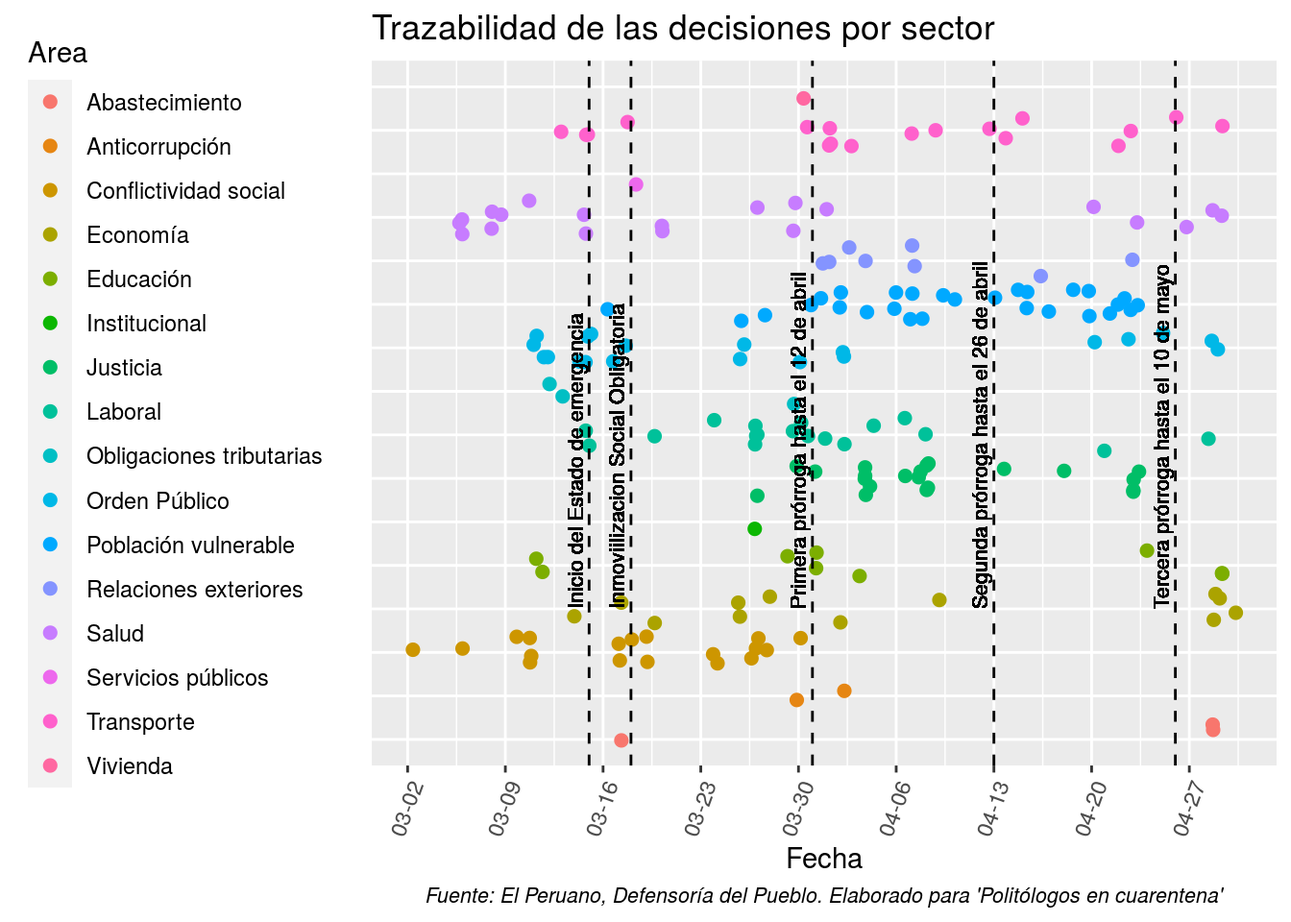
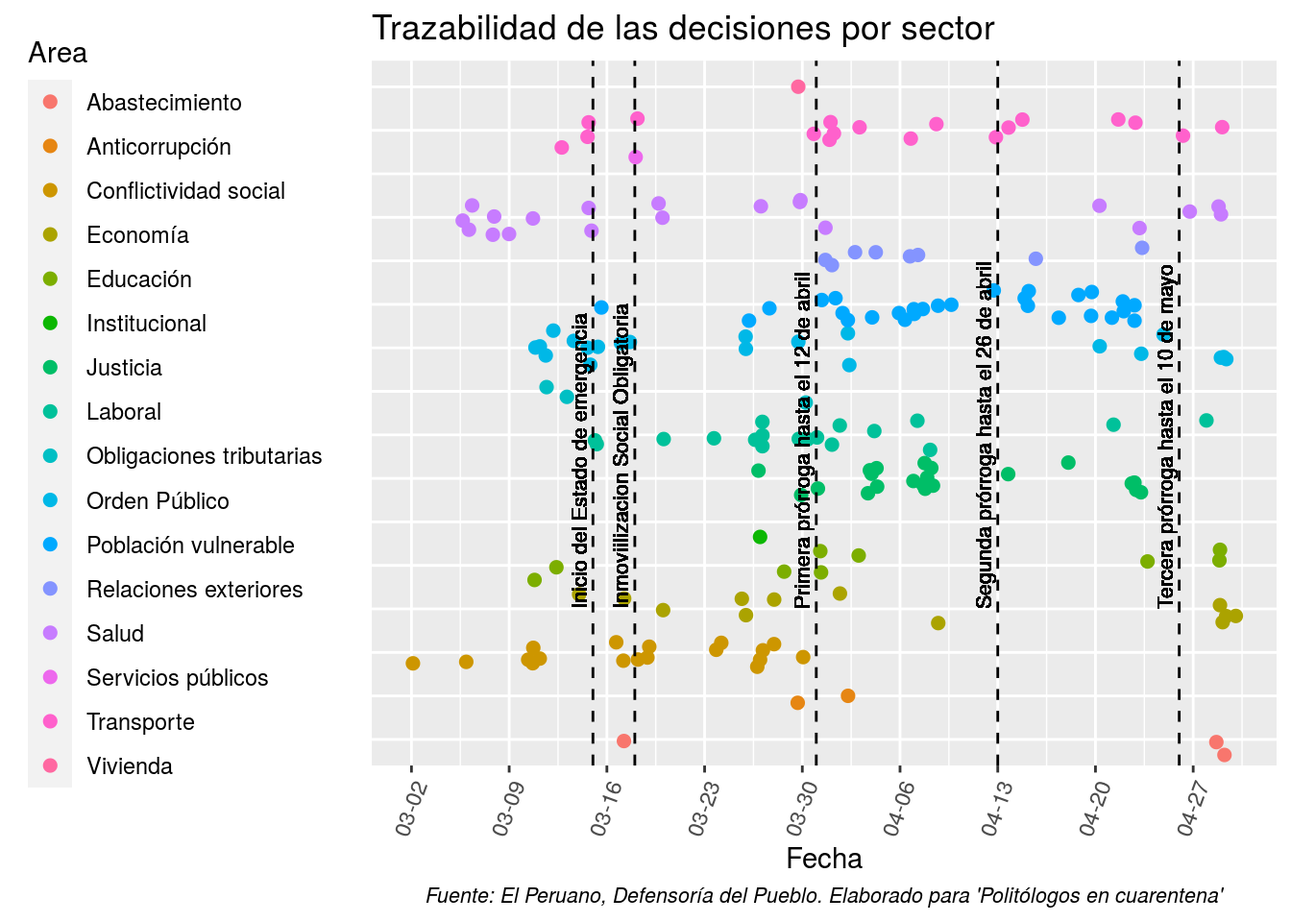
Actualizacion 30 de abril

diff --git a/nacional.html b/nacional.html
@@ -330,7 +330,7 @@ Al tomar decisiones para resolver un problema público prosigue el proceso de co
 </p>
 <p>
 <div style="text-align:justify">
-Un <em>análisis por instrumentos</em> permite explorar las medidas que son seleccionadas por el gobierno de una “caja de herramientas” de cara a la ciudadanía en su estrategia para contener la expansión del COVID-19 en el Perú. Entonces, <strong>¿Cómo podemos encontrarle un sentido a una diversidad de instrumentos que se han venido aplicando?</strong> La repuesta es mediante la taxonomía NATO, originalmente trabajada por Christopher Hood en su texto <em>The Tools of Government: Public Policy and Politics</em>
+Un <em>análisis por instrumentos</em> permite explorar las medidas que son seleccionadas por el gobierno de una “caja de herramientas” de cara a la ciudadanía en su estrategia para contener la expansión del COVID-19 en el Perú. Entonces, <strong>¿Cómo podemos encontrarle un sentido a una diversidad de medidas que se han venido aplicando?</strong> La repuesta es mediante la taxonomía NATO, originalmente trabajada por Christopher Hood en su texto <em>The Tools of Government: Public Policy and Politics</em>
 </div>
 </p>
 </div>
@@ -354,8 +354,8 @@ La <strong>taxonomía NATO</strong> (acrónimo de las palabras <em>nodality</em>
 <p>
 Entonces, <strong>¿Cuáles han sido los instrumentos de política puestos en práctica por el gobierno para enfrentar la crisis del COVID-19?</strong>
 </p>
-<div id="htmlwidget-556fe469fab89ae21f2c" style="width:100%;height:auto;" class="datatables html-widget"></div>
-<script type="application/json" data-for="htmlwidget-556fe469fab89ae21f2c">{"x":{"filter":"none","data":[["2020-04-30","2020-04-29","2020-04-29","2020-04-14","2020-04-09","2020-04-02","2020-04-02","2020-04-01","2020-03-30","2020-03-30","2020-03-29","2020-03-28","2020-03-26","2020-03-26","2020-03-26","2020-03-26","2020-03-26","2020-03-20","2020-03-20","2020-03-20","2020-03-20","2020-03-18","2020-03-18","2020-03-17","2020-03-17","2020-03-17","2020-03-16","2020-03-15","2020-03-15","2020-03-15","2020-03-15","2020-03-15","2020-03-15","2020-03-15","2020-03-15","2020-03-15","2020-03-14","2020-03-14","2020-03-13","2020-03-12","2020-03-12","2020-03-12","2020-03-12","2020-03-11","2020-03-11","2020-03-09","2020-03-08","2020-03-08","2020-03-06","2020-03-06","2020-03-06"],["Economía","Abastecimiento","Economía","Justicia","Economía","Orden Público","Anticorrupción","Salud","Orden Público","Laboral","Educación","Economía","Orden Público","Orden Público","Población vulnerable","Economía","Economía","Salud","Salud","Laboral","Economía","Orden Público","Servicios públicos","Orden Público","Economía","Abastecimiento","Población vulnerable","Orden Público","Orden Público","Orden Público","Transporte","Transporte","Laboral","Laboral","Salud","Salud","Economía","Orden Público","Obligaciones tributarias","Educación","Orden Público","Orden Público","Obligaciones tributarias","Orden Público","Orden Público","Salud","Salud","Salud","Salud","Salud","Salud"],["Aprobación del retiro del 25% de los fondos de AFP","Cierre por 10 días del Mercado Caqueta para su desinfección y apertura de mercado itinerante en la Av. Zarumilla para el abastecimiento temporal","Se habilita el retiro de un máximo de 3000 soles de la AFP","Aplicación de la conversión automática de la pena a arresto domiciliario para personas condenadas por el delito de omisión de asistencia familiar con el objetivo de reducir el hacinamiento en los centro penitenciarios y evitar contagios de COVID-19","Lanzamiento del aplicativo web que permite el seguimiento del presupuesto asignado para mitigar efectos del COVID-19","Se restringe la movilización de hombres y mujeres a días determinados, para reducir la circulación de personas. Mujeres: martes, jueves y sábados. Hombres: lunes, miércoles y viernes","Se dispone el uso obligatorio de la \"Plataforma  para la Transparencia de la Gestión Pública en la Emergencia Sanitaria COVID-19\" por parte de los gobiernos locales","Se apertura la plataforma virtual \"Perú en tus manos\"","Modificación del horario de Inmovilizacion Social Obligatoria desde las 6 pm. hasta las 5 am. a nivel nacional. Excepción de Loreto, Piura, Lambayeque y La Libertad, Tumbes donde se aplicará desde las 4 pm.","Autorización de los 2000 soles de AFP para aquellos trabajadores que no estan en planilla de los ultimos 12 meses.","Aprobación de los criterios para la supervisión de la adaptación de la educación no presencial, con caracter excepcional, en las universidades y escuelas de posgrado","Aprobación de Contrato de Fideicomiso de Administración del Fondo de Apoyo Empresarial a la MYPE","Ampliación de Estado de Emergencia por 13 dias calendarios","Registro de personas infractoras del Estado de Emergencia para derivarse al Ministerio Público","Entrega de canasta basica a familias vulnerables","Suspension del mes de abril a los aportes en AFP","Subsidio para el pago de planilla de empleadores del sector privado orientado a la preservación del empleo","App para registro y pruebas autoaplicadas","Aumento constante de pruebas diarias aplicadas","Se establece la licencia con goce de haber compensable.","Apoyo financiero a la MYPE y financiamiento de acciones ante los efectos del COVID-19","Inmovilizacion Social Obligatorio (de 8 pm. a 5 am.)","Postergacion de pagos de servicios publicos del mes de marzo","Autorización de solicitud de pase de tránsito","Ampliación de la vigencia de los DNI caducos o próximos a caducar, para acceder a bienes y servicios","Prorrogan vigencia de títulos habilitantes en materia de licencias de conducir, servicios de transporte de personas y de carga y mercancía","Bono de 380 soles para familias en situación en situación vulnerable","Declaración de Estado de Emergencia (suspensión de derechos constitucionales)","Suspensión de acceso publico a lugares y toda actividad masiva","Cierre temporal de fronteras durante el tiempo de Estado de Emergencia","Transporte urbano reduce oferta en 50%","Restricción de transporte interprovincial (exceptuando a carga y/o mercancía)","Autorización del trabajo remoto para el sector publico y privado","Subsidio a trabajadores con COVID-19","#quedateencasa #yomequedoencasa","Reporte diarios del avance de las medidas por parte del Presidente","Amplían el alcance de la cobertura del Fondo CRECER para las Pymes","Suspensión temporal de recepción de naves crucero","Reduccion a 0% de tasa arancelaria a la importación de bienes vinculados a la Emergencia Sanitaria","Postergación o suspensión de actividades en los universidades e institutos públicos o privados ","Prohibicion de cualquier espectáculo de más de 300 personas y locales al 50% de aforo","Suspensión de vuelos a Europa y Asia por 30 dias","Aplazamiento de la declaracion de impuestos","Aislamiento domiciliario por catorce (14) días para personas provenientes de España, Italia y China","Postergación o suspensión de actividades en los centros educativos públicos o privados ","Guía para la prevención del COVID-19 en el ámbito laboral","Atención y manejo clinico de casos de COVID-19\n","Declaración Jurada de Salud del Viajero para prevenir el coronavirus (COVID-19)","Campañas de promoción de lavado de manos\n","Inicio de reportes diarios de casos confirmados","Habilitación de la Linea 113"],["Tesoro","Autoridad","Tesoro","Autoridad","Nodalidad","Autoridad","Nodalidad","Nodalidad","Autoridad","Tesoro","Autoridad","Tesoro","Autoridad","Autoridad","Tesoro","Tesoro","Tesoro","Nodalidad","Nodalidad","","Tesoro","Autoridad","Tesoro","Nodalidad","Tesoro","Organización","Tesoro","Autoridad","Autoridad","Autoridad","Autoridad","Autoridad","Autoridad","Tesoro","Nodalidad","Nodalidad","Tesoro","Autoridad","Tesoro","Autoridad","Autoridad","Autoridad","Tesoro","Autoridad","Autoridad","Autoridad","Autoridad","Nodalidad","Nodalidad","Nodalidad","Organización"]],"container":"<table class=\"display\">\n  <thead>\n    <tr>\n      <th>Fecha<\/th>\n      <th>Sector<\/th>\n      <th>Instrumento<\/th>\n      <th>Tipo<\/th>\n    <\/tr>\n  <\/thead>\n<\/table>","options":{"pageLength":10,"lengthMenu":[10,15,20],"language":{"lengthMenu":"Mostrar _MENU_ entradas","info":"Mostrando _START_ al _END_ de _TOTAL_ entradas","search":"Buscar:","paginate":{"previous":"Anterior","next":"Siguiente"}},"order":[],"autoWidth":false,"orderClasses":false}},"evals":[],"jsHooks":[]}</script>
+<div id="htmlwidget-3360e8b6d676a815069c" style="width:100%;height:auto;" class="datatables html-widget"></div>
+<script type="application/json" data-for="htmlwidget-3360e8b6d676a815069c">{"x":{"filter":"none","data":[["2020-04-30","2020-04-29","2020-04-29","2020-04-14","2020-04-09","2020-04-02","2020-04-02","2020-04-01","2020-03-30","2020-03-30","2020-03-29","2020-03-28","2020-03-26","2020-03-26","2020-03-26","2020-03-26","2020-03-26","2020-03-20","2020-03-20","2020-03-20","2020-03-20","2020-03-18","2020-03-18","2020-03-17","2020-03-17","2020-03-17","2020-03-16","2020-03-15","2020-03-15","2020-03-15","2020-03-15","2020-03-15","2020-03-15","2020-03-15","2020-03-15","2020-03-15","2020-03-14","2020-03-14","2020-03-13","2020-03-12","2020-03-12","2020-03-12","2020-03-12","2020-03-11","2020-03-11","2020-03-09","2020-03-08","2020-03-08","2020-03-06","2020-03-06","2020-03-06"],["Economía","Abastecimiento","Economía","Justicia","Economía","Orden Público","Anticorrupción","Salud","Orden Público","Laboral","Educación","Economía","Orden Público","Orden Público","Población vulnerable","Economía","Economía","Salud","Salud","Laboral","Economía","Orden Público","Servicios públicos","Orden Público","Economía","Abastecimiento","Población vulnerable","Orden Público","Orden Público","Orden Público","Transporte","Transporte","Laboral","Laboral","Salud","Salud","Economía","Orden Público","Obligaciones tributarias","Educación","Orden Público","Orden Público","Obligaciones tributarias","Orden Público","Orden Público","Salud","Salud","Salud","Salud","Salud","Salud"],["Aprobación del retiro del 25% de los fondos de AFP","Cierre por 10 días del Mercado Caqueta para su desinfección y apertura de mercado itinerante en la Av. Zarumilla para el abastecimiento temporal","Se habilita el retiro de un máximo de 3000 soles de la AFP","Aplicación de la conversión automática de la pena a arresto domiciliario para personas condenadas por el delito de omisión de asistencia familiar con el objetivo de reducir el hacinamiento en los centro penitenciarios y evitar contagios de COVID-19","Lanzamiento del aplicativo web que permite el seguimiento del presupuesto asignado para mitigar efectos del COVID-19","Se restringe la movilización de hombres y mujeres a días determinados, para reducir la circulación de personas. Mujeres: martes, jueves y sábados. Hombres: lunes, miércoles y viernes","Se dispone el uso obligatorio de la \"Plataforma  para la Transparencia de la Gestión Pública en la Emergencia Sanitaria COVID-19\" por parte de los gobiernos locales","Se apertura la plataforma virtual \"Perú en tus manos\"","Modificación del horario de Inmovilizacion Social Obligatoria desde las 6 pm. hasta las 5 am. a nivel nacional. Excepción de Loreto, Piura, Lambayeque y La Libertad, Tumbes donde se aplicará desde las 4 pm.","Autorización de los 2000 soles de AFP para aquellos trabajadores que no estan en planilla de los ultimos 12 meses.","Aprobación de los criterios para la supervisión de la adaptación de la educación no presencial, con caracter excepcional, en las universidades y escuelas de posgrado","Aprobación de Contrato de Fideicomiso de Administración del Fondo de Apoyo Empresarial a la MYPE","Ampliación de Estado de Emergencia por 13 dias calendarios","Registro de personas infractoras del Estado de Emergencia para derivarse al Ministerio Público","Entrega de canasta basica a familias vulnerables","Suspension del mes de abril a los aportes en AFP","Subsidio para el pago de planilla de empleadores del sector privado orientado a la preservación del empleo","App para registro y pruebas autoaplicadas","Aumento constante de pruebas diarias aplicadas","Se establece la licencia con goce de haber compensable.","Apoyo financiero a la MYPE y financiamiento de acciones ante los efectos del COVID-19","Inmovilizacion Social Obligatorio (de 8 pm. a 5 am.)","Postergacion de pagos de servicios publicos del mes de marzo","Autorización de solicitud de pase de tránsito","Ampliación de la vigencia de los DNI caducos o próximos a caducar, para acceder a bienes y servicios","Prorrogan vigencia de títulos habilitantes en materia de licencias de conducir, servicios de transporte de personas y de carga y mercancía","Bono de 380 soles para familias en situación en situación vulnerable","Declaración de Estado de Emergencia (suspensión de derechos constitucionales)","Suspensión de acceso publico a lugares y toda actividad masiva","Cierre temporal de fronteras durante el tiempo de Estado de Emergencia","Transporte urbano reduce oferta en 50%","Restricción de transporte interprovincial (exceptuando a carga y/o mercancía)","Autorización del trabajo remoto para el sector publico y privado","Subsidio a trabajadores con COVID-19","#quedateencasa #yomequedoencasa","Reporte diarios del avance de las medidas por parte del Presidente","Amplían el alcance de la cobertura del Fondo CRECER para las Pymes","Suspensión temporal de recepción de naves crucero","Reduccion a 0% de tasa arancelaria a la importación de bienes vinculados a la Emergencia Sanitaria","Postergación o suspensión de actividades en los universidades e institutos públicos o privados ","Prohibicion de cualquier espectáculo de más de 300 personas y locales al 50% de aforo","Suspensión de vuelos a Europa y Asia por 30 dias","Aplazamiento de la declaracion de impuestos","Aislamiento domiciliario por catorce (14) días para personas provenientes de España, Italia y China","Postergación o suspensión de actividades en los centros educativos públicos o privados ","Guía para la prevención del COVID-19 en el ámbito laboral","Atención y manejo clinico de casos de COVID-19\n","Declaración Jurada de Salud del Viajero para prevenir el coronavirus (COVID-19)","Campañas de promoción de lavado de manos\n","Inicio de reportes diarios de casos confirmados","Habilitación de la Linea 113"],["Tesoro","Autoridad","Tesoro","Autoridad","Nodalidad","Autoridad","Nodalidad","Nodalidad","Autoridad","Tesoro","Autoridad","Tesoro","Autoridad","Autoridad","Tesoro","Tesoro","Tesoro","Nodalidad","Nodalidad","","Tesoro","Autoridad","Tesoro","Nodalidad","Tesoro","Organización","Tesoro","Autoridad","Autoridad","Autoridad","Autoridad","Autoridad","Autoridad","Tesoro","Nodalidad","Nodalidad","Tesoro","Autoridad","Tesoro","Autoridad","Autoridad","Autoridad","Tesoro","Autoridad","Autoridad","Autoridad","Autoridad","Nodalidad","Nodalidad","Nodalidad","Organización"]],"container":"<table class=\"display\">\n  <thead>\n    <tr>\n      <th>Fecha<\/th>\n      <th>Sector<\/th>\n      <th>Instrumento<\/th>\n      <th>Tipo<\/th>\n    <\/tr>\n  <\/thead>\n<\/table>","options":{"pageLength":10,"lengthMenu":[10,15,20],"language":{"lengthMenu":"Mostrar _MENU_ entradas","info":"Mostrando _START_ al _END_ de _TOTAL_ entradas","search":"Buscar:","paginate":{"previous":"Anterior","next":"Siguiente"}},"order":[],"autoWidth":false,"orderClasses":false}},"evals":[],"jsHooks":[]}</script>
 </div>
 <div id="redes-de-subsistemas-politicos" class="section level3">
 <h3>2.3. Redes de subsistemas politicos</h3>
@@ -402,12 +402,18 @@ En este contexto de Estado de Emergencia, las princpales actividades aún vigent
 <p>Max Iglesias (Comandante General de la PNP): “Alrededor de mas de dos mil policías contagiados y 24 policias que lamentablemente han fallecido.” (<em>29 de abril del 2020</em>)</p>
 </blockquote>
 </div>
+<div id="militares" class="section level4">
+<h4>Militares</h4>
+<blockquote>
+<p>Walter Martos (Ministro de Defensa): “Hasta el momento han fallecido 6 militares de las Fuerzas Armadas (FF.AA.) a causa del COVID-19 y otros 349 están contagiados en el país” (<em>29 de abril del 2020</em>)</p>
+</blockquote>
+</div>
 </div>
 <div id="conflictos-sociales-vinculados-al-estado-de-emergencia" class="section level3">
 <h3>2.6. Conflictos sociales vinculados al Estado de Emergencia</h3>
 <p>Según el reporte de conflictos mensual emitido por la Defensoria del Pueblo, para el mes de marzo se registraron <strong>18 acciones de protesta</strong> vinculadas a la situación de emergencia por causa del COVID-19. En el mes de abril estas manifestaciones se han venido incrementando diariamente.</p>
-<div id="htmlwidget-6ce85d82aaca64a7bd91" style="width:100%;height:auto;" class="datatables html-widget"></div>
-<script type="application/json" data-for="htmlwidget-6ce85d82aaca64a7bd91">{"x":{"filter":"none","data":[["2020-04-29","2020-04-29","2020-04-29","2020-04-29","2020-04-27","2020-04-24","2020-04-20","2020-03-30","2020-03-28","2020-03-27","2020-03-27","2020-03-24","2020-03-24","2020-03-19","2020-03-19","2020-03-18","2020-03-17","2020-03-17","2020-03-11","2020-03-11","2020-03-11","2020-03-10","2020-03-06","2020-03-02"],["Enfermeras del Hospital Militar","Padres de colegios privados","Ciudadanos loretanos","Padres de colegios privados en Juliaca","Técnicos y enfermeros del hospital Hipólito Unanue","Padres del Colegio Technology School","Personal de salud del Hospital Maria Auxiliadora","Presos del penal de Yanamilla\n","Población del sector calle\nDos ","Médicos del Hospital Honorio Delgado Espinoza","Población del sector de Chicago de Trujillo","Transportistas de Carga Pesada","Asociación de\nTransportes de Carga\nPeligrosa\n","Poblacion de Lima","Ciudadanos varados en\nlas afueras del\naeropuerto Jorge Chávez","Médicos del Hospital César Garayar García","Trabajadores del Programa Surco Verde","Población del asentamiento humano Complejo Habitaciona","Población del distrito de\nVíctor Larco","Personal de salud del Hospital Regional de Áncash - Eleazar Gusmán Barrón","Médicos, enfermeras y trabajadores del Hospital Carlos Alcántara","Médicos del Hospital Goyoneche","Médicos y personal del Hospital Uldarico Roca Fernández","Población de Nuevo Chimbote"],["Las enfermeras del Hospital Militar se vieron obligadas a protestar fuera de dicho nosocomio en Lima, debido a que no se les entrega protección adecuada para proteger su vida y salud del coronavirus COVID-19","Padres protestan en las afueras del colegio Trilce de Chorrillos para exigir reducción del 50% de la pensión","Loretanos bloquearon la Av. Faucett exigiendo traslado humanitario","Juliaca: padres protestan para lograr rebaja de pensiones en colegios privados","El personal pidió que se cumpla con sus pagos y se les asignen los implementos necesarios para que continúen luchando contra el COVID-19.","Padres protestan en los exteriores de colegios particulares por cobro de pensiones","Un grupo de profesionales de la salud, entre médicos, enfermeras y trabajadores, del hospital María Auxiliadora realizó una protesta frente a dicha institución, en Villa María del Triunfo, para reclamar por la falta de equipos de protección personal (EPP). ","Ampliación hasta el próximo 31 de octubre de la vigencia de la Habilitación del conductor y de la Tarjeta Única de Circulación (TUC).","Rechazan que el recinto deportivo Campeones del 36 sea considerado como albergue para pacientes positivos de coronavirus.","Rechazan la decisión de utilizar el área sensible como zona de aislamiento temporal para pacientes graves por coronavirus","Rechazan la instalación de un hospital itinerante para pacientes de coronavirus en el complejo deportivo Chan Chan.\n","Exigen se anule el cobro de peajes en pleno Estado de Emergencia Nacional","Denuncian el funcionamiento de la empresa minera Lincuna en pleno Estado de Emergencia Nacional","Exigen a las autoridades ayuda y que se disponga de un vuelo humanitario a la ciudad de Lima.","Exigen a las autoridades ayuda y que se disponga de vuelos humanitarios para los destinos de Arequipa, Piura, Cusco y Puerto Maldonado.","Exigen implementos necesarios y suficientes para poder atender los casos de pacientes con coronavirus.","Denuncian que pese a la prohibición de movimiento por el Estado de Emergencia a causa del coronavirus, la Municipalidad de Surco les obliga a trabajar con normalidad.","Exigen recibir el bono de S/. 380 anunciado por el Gobierno Nacional en el marco del Estado de Emergencia Nacional por el coronavirus.","Rechazan que el Centro Preventorio de EsSalud sea considerado para la atención de presuntos portadores de\ncoronavirus.","Exigen mejores condiciones e implementos como mascarillas, botas, mandiles; que ayuden a enfrentar posibles casos de coronavirus.","Denuncian la improvisación de Essalud para la atención de pacientes infectados con el nuevo coronavirus. Asimismo, exigen mejores condiciones e implementos como mascarillas, botas, mandiles, entre otros","Exigen mejores condiciones e implementos como mascarillas, botas, mandiles; que ayuden a enfrentar\nposibles casos de coronavirus.\n","Rechazan la designación del hospital Uldarico Roca Fernández como uno de los centros médicos para atender\ncasos de coronavirus en Perú.","Exigen el cierre temporal del puerto de Chimbote para evitar el ingreso de posibles casos del nuevo coronavirus\nen la región."],["Plantón","Plantón","Bloqueo de vía","Plantón","Plantón","Plantón","Plantón","Plantón","Plantón","Plantón","Plantón","Concentración","Concentración","Plantón","Concentración","Plantón","Paralización de actividades\n","Concentración","Concentración","Plantón","Plantón","Plantón","Plantón","Concentración"]],"container":"<table class=\"display\">\n  <thead>\n    <tr>\n      <th>Fecha<\/th>\n      <th>Actores en protesta<\/th>\n      <th>Contenido<\/th>\n      <th>Accion colectiva<\/th>\n    <\/tr>\n  <\/thead>\n<\/table>","options":{"order":[],"autoWidth":false,"orderClasses":false}},"evals":[],"jsHooks":[]}</script>
+<div id="htmlwidget-5f89ae94e8c4e93ca845" style="width:100%;height:auto;" class="datatables html-widget"></div>
+<script type="application/json" data-for="htmlwidget-5f89ae94e8c4e93ca845">{"x":{"filter":"none","data":[["2020-04-29","2020-04-29","2020-04-29","2020-04-29","2020-04-27","2020-04-24","2020-04-20","2020-03-30","2020-03-28","2020-03-27","2020-03-27","2020-03-24","2020-03-24","2020-03-19","2020-03-19","2020-03-18","2020-03-17","2020-03-17","2020-03-11","2020-03-11","2020-03-11","2020-03-10","2020-03-06","2020-03-02"],["Enfermeras del Hospital Militar","Padres de colegios privados","Ciudadanos loretanos","Padres de colegios privados en Juliaca","Técnicos y enfermeros del hospital Hipólito Unanue","Padres del Colegio Technology School","Personal de salud del Hospital Maria Auxiliadora","Presos del penal de Yanamilla\n","Población del sector calle\nDos ","Médicos del Hospital Honorio Delgado Espinoza","Población del sector de Chicago de Trujillo","Transportistas de Carga Pesada","Asociación de\nTransportes de Carga\nPeligrosa\n","Poblacion de Lima","Ciudadanos varados en\nlas afueras del\naeropuerto Jorge Chávez","Médicos del Hospital César Garayar García","Trabajadores del Programa Surco Verde","Población del asentamiento humano Complejo Habitaciona","Población del distrito de\nVíctor Larco","Personal de salud del Hospital Regional de Áncash - Eleazar Gusmán Barrón","Médicos, enfermeras y trabajadores del Hospital Carlos Alcántara","Médicos del Hospital Goyoneche","Médicos y personal del Hospital Uldarico Roca Fernández","Población de Nuevo Chimbote"],["Las enfermeras del Hospital Militar se vieron obligadas a protestar fuera de dicho nosocomio en Lima, debido a que no se les entrega protección adecuada para proteger su vida y salud del coronavirus COVID-19","Padres protestan en las afueras del colegio Trilce de Chorrillos para exigir reducción del 50% de la pensión","Loretanos bloquearon la Av. Faucett exigiendo traslado humanitario","Juliaca: padres protestan para lograr rebaja de pensiones en colegios privados","El personal pidió que se cumpla con sus pagos y se les asignen los implementos necesarios para que continúen luchando contra el COVID-19.","Padres protestan en los exteriores de colegios particulares por cobro de pensiones","Un grupo de profesionales de la salud, entre médicos, enfermeras y trabajadores, del hospital María Auxiliadora realizó una protesta frente a dicha institución, en Villa María del Triunfo, para reclamar por la falta de equipos de protección personal (EPP). ","Ampliación hasta el próximo 31 de octubre de la vigencia de la Habilitación del conductor y de la Tarjeta Única de Circulación (TUC).","Rechazan que el recinto deportivo Campeones del 36 sea considerado como albergue para pacientes positivos de coronavirus.","Rechazan la decisión de utilizar el área sensible como zona de aislamiento temporal para pacientes graves por coronavirus","Rechazan la instalación de un hospital itinerante para pacientes de coronavirus en el complejo deportivo Chan Chan.\n","Exigen se anule el cobro de peajes en pleno Estado de Emergencia Nacional","Denuncian el funcionamiento de la empresa minera Lincuna en pleno Estado de Emergencia Nacional","Exigen a las autoridades ayuda y que se disponga de un vuelo humanitario a la ciudad de Lima.","Exigen a las autoridades ayuda y que se disponga de vuelos humanitarios para los destinos de Arequipa, Piura, Cusco y Puerto Maldonado.","Exigen implementos necesarios y suficientes para poder atender los casos de pacientes con coronavirus.","Denuncian que pese a la prohibición de movimiento por el Estado de Emergencia a causa del coronavirus, la Municipalidad de Surco les obliga a trabajar con normalidad.","Exigen recibir el bono de S/. 380 anunciado por el Gobierno Nacional en el marco del Estado de Emergencia Nacional por el coronavirus.","Rechazan que el Centro Preventorio de EsSalud sea considerado para la atención de presuntos portadores de\ncoronavirus.","Exigen mejores condiciones e implementos como mascarillas, botas, mandiles; que ayuden a enfrentar posibles casos de coronavirus.","Denuncian la improvisación de Essalud para la atención de pacientes infectados con el nuevo coronavirus. Asimismo, exigen mejores condiciones e implementos como mascarillas, botas, mandiles, entre otros","Exigen mejores condiciones e implementos como mascarillas, botas, mandiles; que ayuden a enfrentar\nposibles casos de coronavirus.\n","Rechazan la designación del hospital Uldarico Roca Fernández como uno de los centros médicos para atender\ncasos de coronavirus en Perú.","Exigen el cierre temporal del puerto de Chimbote para evitar el ingreso de posibles casos del nuevo coronavirus\nen la región."],["Plantón","Plantón","Bloqueo de vía","Plantón","Plantón","Plantón","Plantón","Plantón","Plantón","Plantón","Plantón","Concentración","Concentración","Plantón","Concentración","Plantón","Paralización de actividades\n","Concentración","Concentración","Plantón","Plantón","Plantón","Plantón","Concentración"]],"container":"<table class=\"display\">\n  <thead>\n    <tr>\n      <th>Fecha<\/th>\n      <th>Actores en protesta<\/th>\n      <th>Contenido<\/th>\n      <th>Accion colectiva<\/th>\n    <\/tr>\n  <\/thead>\n<\/table>","options":{"order":[],"autoWidth":false,"orderClasses":false}},"evals":[],"jsHooks":[]}</script>
 </div>
 <div id="noticias-demandas-y-pronunciamientos" class="section level3">
 <h3>2.7. Noticias, demandas y pronunciamientos</h3>

diff --git a/subnacional.html b/subnacional.html
@@ -312,11 +312,11 @@ $(document).ready(function () {
 <h3>3.1. Gobiernos regionales</h3>
 <div id="datos-sobre-casos-y-muestras-realizadas" class="section level4">
 <h4>3.1.1. Datos sobre casos y muestras realizadas</h4>
-<div id="htmlwidget-2aa42294f75a22525f70" style="width:100%;height:auto;" class="datatables html-widget"></div>
-<script type="application/json" data-for="htmlwidget-2aa42294f75a22525f70">{"x":{"filter":"none","data":[["Amazonas","Áncash","Apurímac","Arequipa","Ayacucho","Cajamarca","Callao","Cusco","Huancavelica","Huánuco","Ica","Junín","La Libertad","Lambayeque","Lima Metropolitana","Lima Región","Loreto","Madre de Dios","Moquegua","Pasco","Piura","Puno","San Martín","Tacna","Tumbes","Ucayali"],[2052,8574,2612,10173,2058,3784,12652,3746,1430,3640,4397,4825,7456,8873,174240,2559,5785,5119,3136,2127,8896,3790,4587,4353,2685,2713],[119,630,66,529,80,162,3101,203,75,169,401,373,615,1956,21337,517,1003,105,111,95,1080,89,205,94,290,526],["491,25","721,19","643,73","735,72","334,00","282,17","1272,20","310,74","411,35","504,82","516,83","387,23","419,33","741,11","1822,16","281,08","654,77","3628,69","1793,40","837,19","479,10","323,19","563,94","1321,77","1194,06","546,47"],["28,49","52,99","16,27","38,26","12,98","12,08","311,82","16,84","21,57","23,44","47,13","29,93","34,59","163,37","223,14","56,79","113,52","74,43","63,48","37,39","58,16","7,59","25,20","28,54","128,97","105,95"],["5,80%","7,35%","2,53%","5,20%","3,89%","4,28%","24,51%","5,42%","5,24%","4,64%","9,12%","7,73%","8,25%","22,04%","12,25%","20,20%","17,34%","2,05%","3,54%","4,47%","12,14%","2,35%","4,47%","2,16%","10,80%","19,39%"]],"container":"<table class=\"display\">\n  <thead>\n    <tr>\n      <th>Región<\/th>\n      <th>Muestras realizadas<\/th>\n      <th>Positivos<\/th>\n      <th>Muestras x 100 mil hab.<\/th>\n      <th>Positivos x 100 mil hab.<\/th>\n      <th>Porcentaje de positivos<\/th>\n    <\/tr>\n  <\/thead>\n<\/table>","options":{"pageLength":10,"lengthMenu":[10,15,20],"language":{"lengthMenu":"Mostrar _MENU_ entradas","info":"Mostrando _START_ al _END_ de _TOTAL_ entradas","search":"Buscar:","paginate":{"previous":"Anterior","next":"Siguiente"}},"columnDefs":[{"className":"dt-right","targets":[1,2]}],"order":[],"autoWidth":false,"orderClasses":false}},"evals":[],"jsHooks":[]}</script>
+<div id="htmlwidget-4ae602ae7c379c0d7311" style="width:100%;height:auto;" class="datatables html-widget"></div>
+<script type="application/json" data-for="htmlwidget-4ae602ae7c379c0d7311">{"x":{"filter":"none","data":[["Amazonas","Áncash","Apurímac","Arequipa","Ayacucho","Cajamarca","Callao","Cusco","Huancavelica","Huánuco","Ica","Junín","La Libertad","Lambayeque","Lima Metropolitana","Lima Región","Loreto","Madre de Dios","Moquegua","Pasco","Piura","Puno","San Martín","Tacna","Tumbes","Ucayali"],[2278,9295,2867,10978,2291,4037,13614,4044,1916,3748,4896,5172,8132,10002,185104,2866,6122,5347,3651,2395,9773,4237,4760,4749,2822,3156],[122,693,78,571,95,170,3219,212,88,189,550,394,668,2176,22985,576,1202,113,120,113,1207,105,238,111,310,671],["545,36","781,84","706,58","793,94","371,81","301,04","1368,94","335,45","551,15","519,80","575,48","415,08","457,35","835,41","1935,77","314,80","692,92","3790,32","2087,92","942,67","526,33","361,30","585,21","1442,01","1254,99","635,70"],["29,21","58,29","19,22","41,30","15,42","12,68","323,68","17,59","25,31","26,21","64,65","31,62","37,57","181,75","240,37","63,27","136,05","80,10","68,63","44,48","65,00","8,95","29,26","33,70","137,86","135,16"],["5,36%","7,46%","2,72%","5,20%","4,15%","4,21%","23,64%","5,24%","4,59%","5,04%","11,23%","7,62%","8,21%","21,76%","12,25%","20,20%","19,63%","2,11%","3,29%","4,72%","12,35%","2,48%","5,00%","2,34%","10,99%","21,26%"]],"container":"<table class=\"display\">\n  <thead>\n    <tr>\n      <th>Región<\/th>\n      <th>Muestras realizadas<\/th>\n      <th>Positivos<\/th>\n      <th>Muestras x 100 mil hab.<\/th>\n      <th>Positivos x 100 mil hab.<\/th>\n      <th>Porcentaje de positivos<\/th>\n    <\/tr>\n  <\/thead>\n<\/table>","options":{"pageLength":10,"lengthMenu":[10,15,20],"language":{"lengthMenu":"Mostrar _MENU_ entradas","info":"Mostrando _START_ al _END_ de _TOTAL_ entradas","search":"Buscar:","paginate":{"previous":"Anterior","next":"Siguiente"}},"columnDefs":[{"className":"dt-right","targets":[1,2]}],"order":[],"autoWidth":false,"orderClasses":false}},"evals":[],"jsHooks":[]}</script>
 <p>
 <div style="text-align:right">
-Datos actualizados al 29/04/2020. Fuente: Sala Situacional-MINSA
+Datos actualizados al 30/04/2020. Fuente: Sala Situacional-MINSA
 </div>
 </p>
 </div>

diff --git a/README.md b/README.md
@@ -1,4 +1,4 @@
-# COVID-19-proyectoperu.github.io
+# Politólogos en cuarentena
 
 Proyecto de un portal para agrupar y analizar las medidas adoptadas por el Estado Peruano en respuesta al coronavirus.
 
